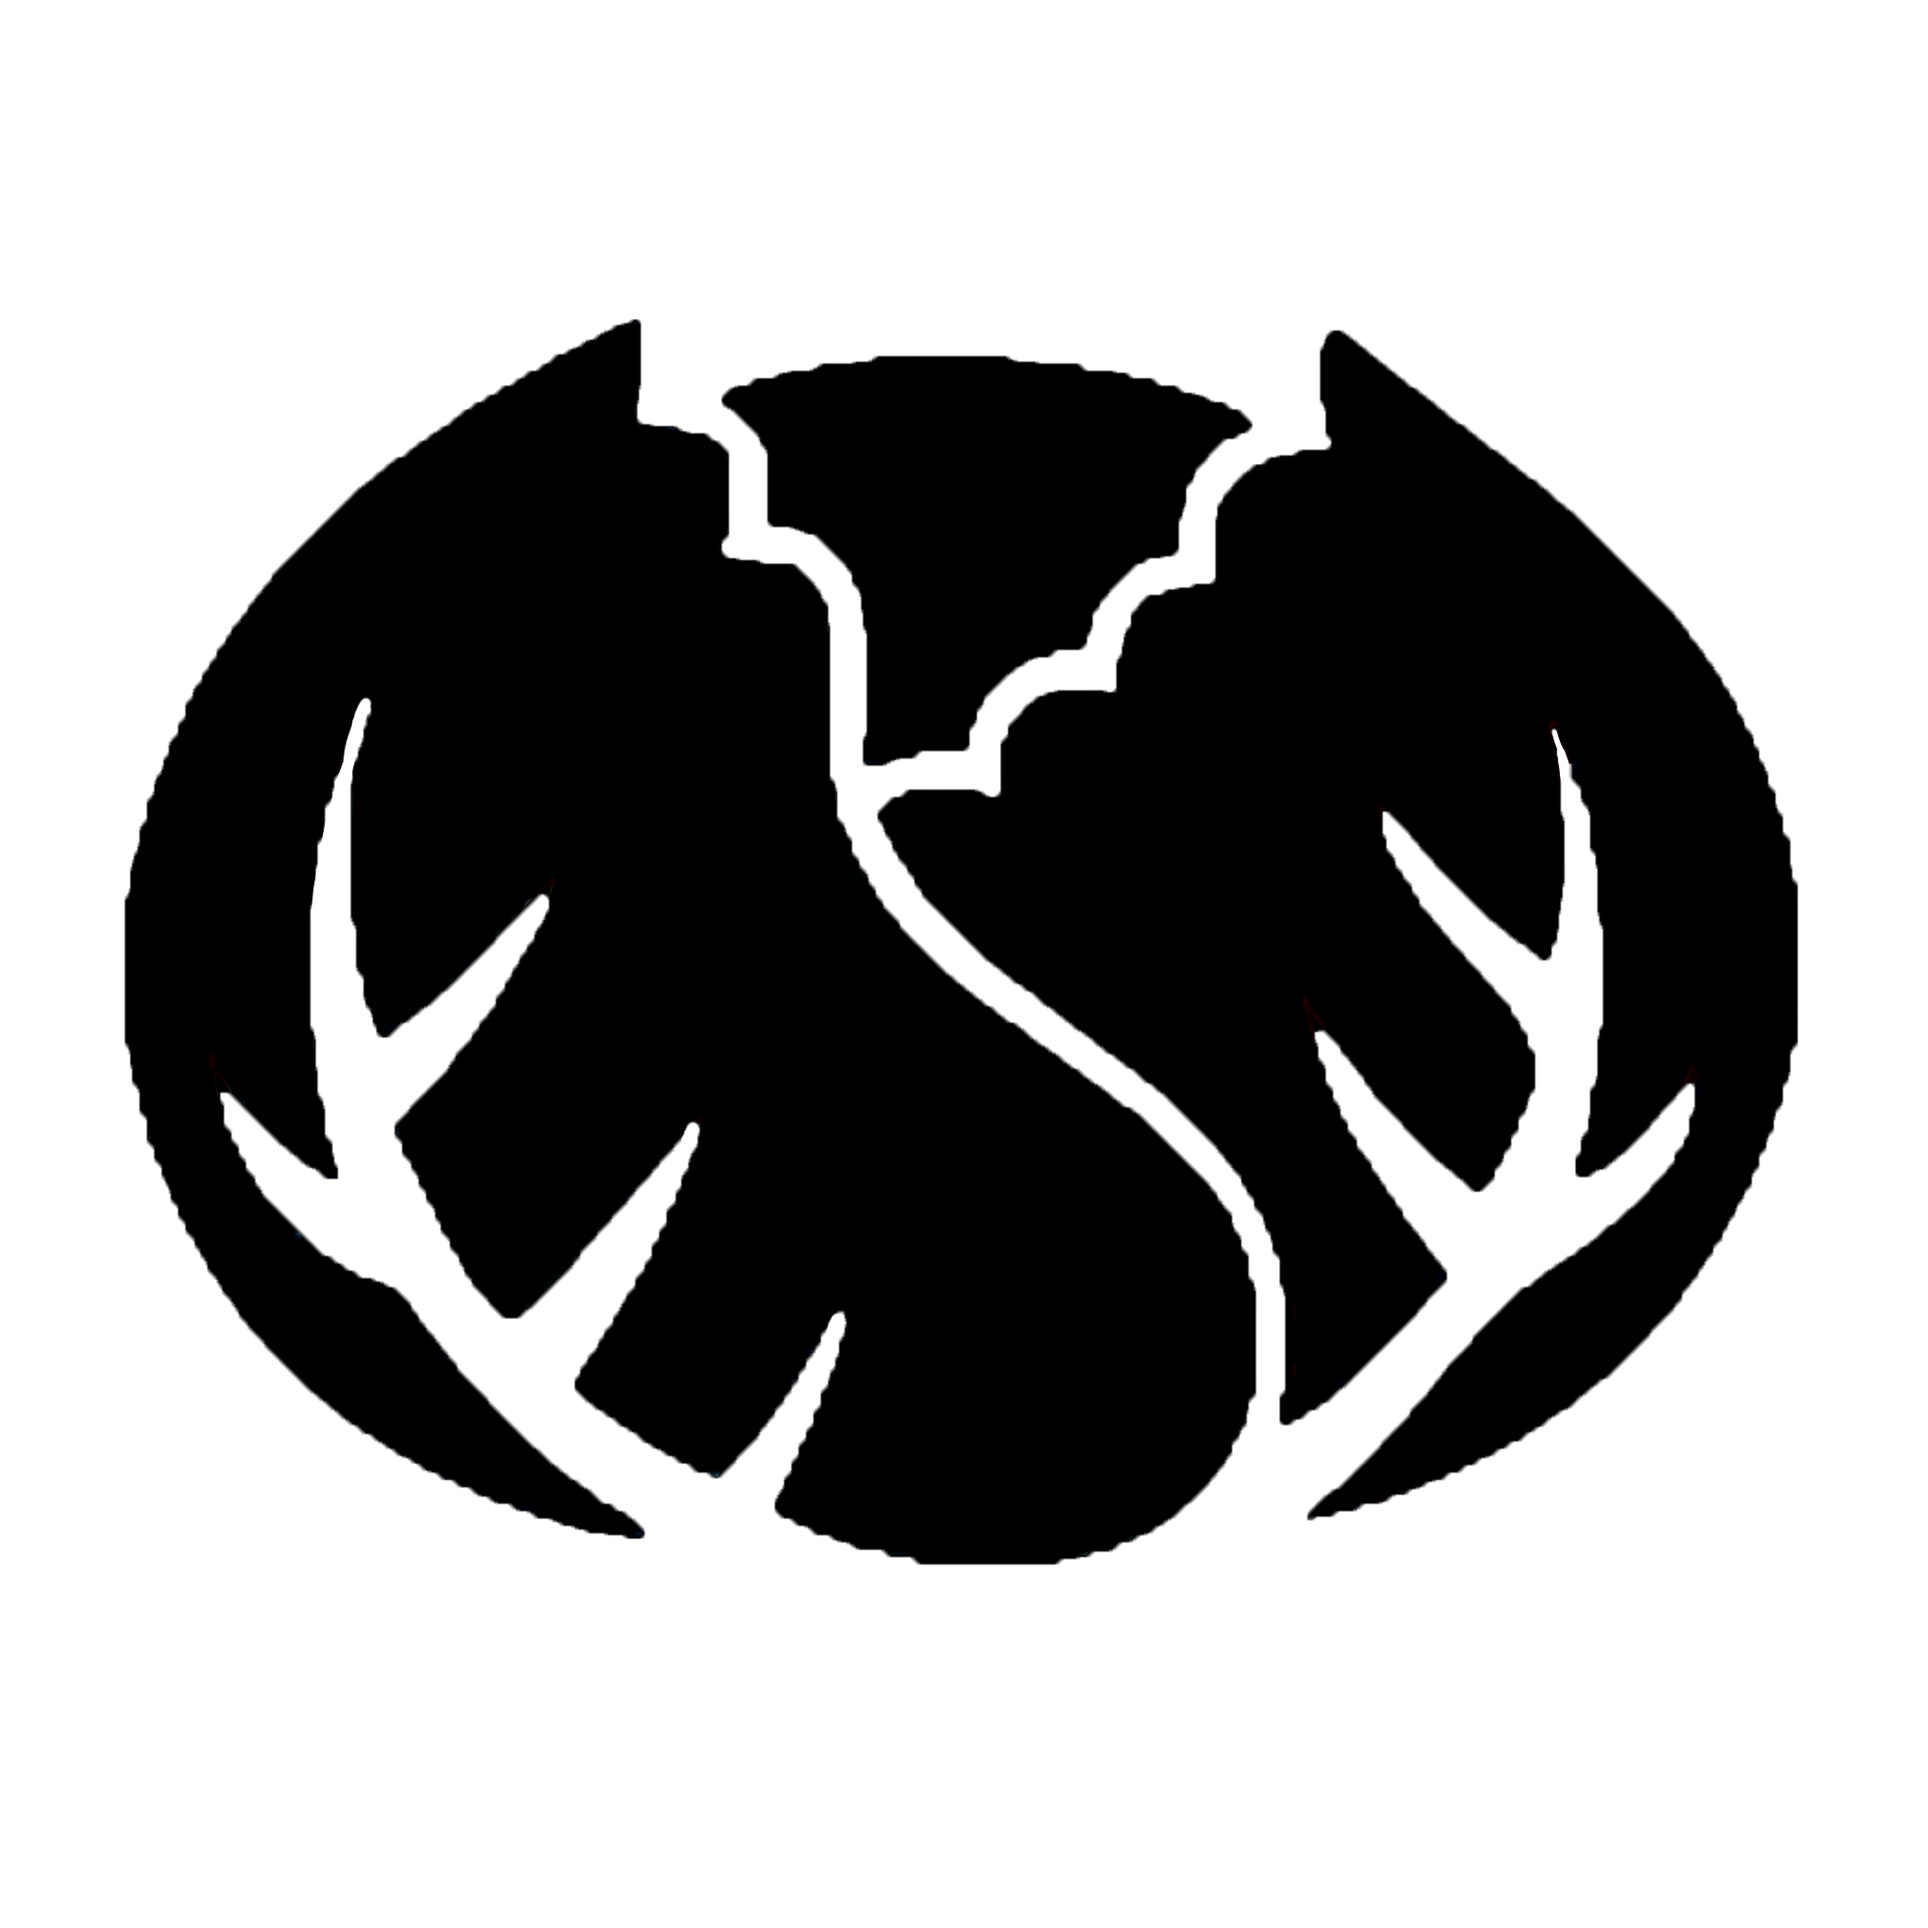
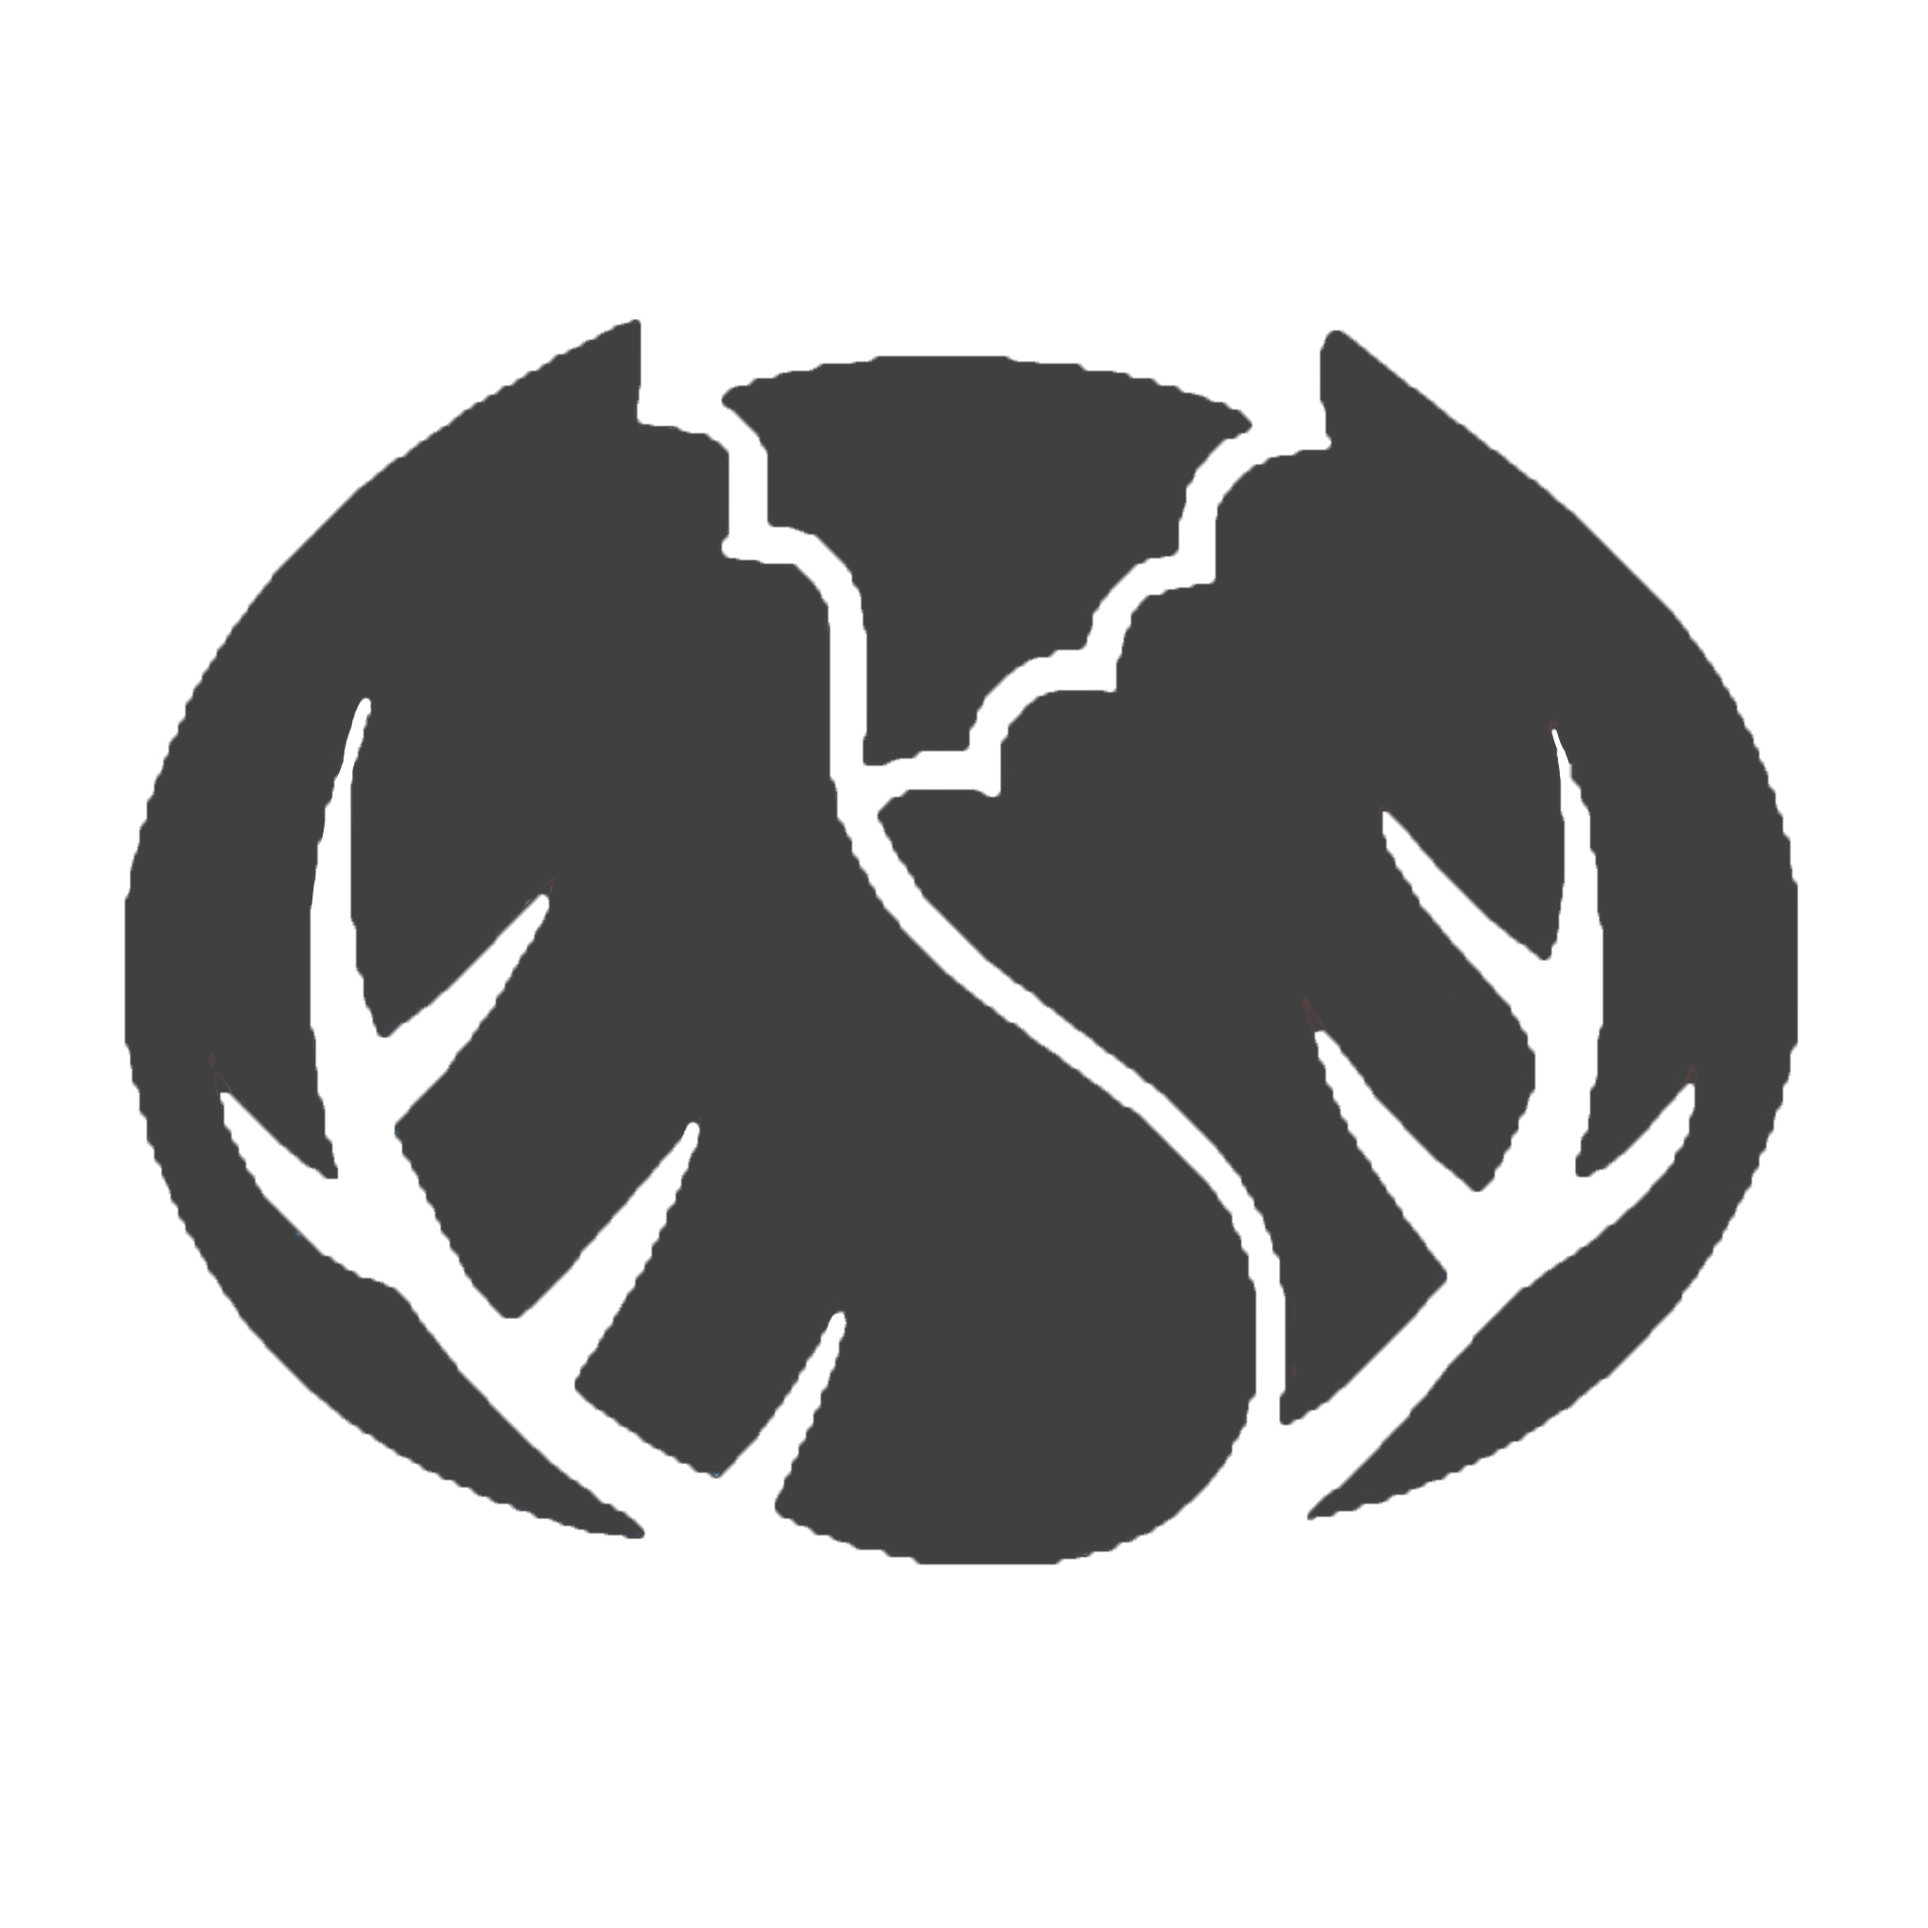
Add styling animations and colors

diff --git a/frontend/src/styles/header.scss b/frontend/src/styles/header.scss
@@ -24,15 +24,18 @@
             align-items: center;
             text-decoration: none;
             border-bottom: $dark-liver 2px solid;
-            
+            border-bottom-style: ridge;
         }
 
         .title {
             font-family: 'Amatic SC', cursive;
-            color: $light-orange;
+            color: $dark-liver;
             text-decoration: none;
-            font-size: 48px;
+            font-size: 52px;
             margin-right: 10px;
+            // text-shadow: 0 0 3px $light-orange, 0 0 6px $dark-liver;
+            text-shadow: 1px 1px #353535;
+
         }
 
         .logo {
@@ -97,18 +100,18 @@
                 position: relative;
             }
             
-            a::before {  
+            .Fruit::before {  
                 transform: scaleX(0);
                 transform-origin: center;
             }
             
-            a:hover::before {
+            .Fruit:hover::before {
                 transform: scaleX(1) translateX(-13%);
                 right: 60px;
                 transform-origin: center;
-              }
+            }
               
-              a::before {
+            .Fruit::before {
                 content: "";
                 display: block;
                 position: absolute;
@@ -125,7 +128,73 @@
                 background-position: center;
                 background-repeat: no-repeat;
                 background-size: 100%;
-              }
+            }
+            
+            a {
+                text-shadow: 1px 1px #353535;
+                font-size: 18px;
+            }
+
+            .Grains::before {  
+                transform: scaleX(0);
+                transform-origin: center;
+            }
+            
+            .Grains:hover::before {
+                transform: scaleX(1) translateX(-13%);
+                right: 60px;
+                transform-origin: center;
+            }
+              
+            .Grains::before {
+                content: "";
+                display: block;
+                position: absolute;
+                top: 0; 
+                right: 60px; 
+                bottom: 0; 
+                left: 0;
+                inset: 0 0 0 0;
+                z-index: -1;
+                transition: transform .3s ease;
+                background-image: url(../assets/images/grains.png);
+                height: 100%;
+                width: 140%;
+                background-position: center;
+                background-repeat: no-repeat;
+                background-size: 100%;
+            }
+
+            .Meats::before {  
+                transform: scaleX(0);
+                transform-origin: center;
+                height: 100%;
+            }
+            
+            .Meats:hover::before {
+                transform: scale(1) translateX(-13%);
+                right: 60px;
+                transform-origin: center;
+            }
+              
+            .Meats::before {
+                content: "";
+                display: block;
+                position: absolute;
+                top: 0; 
+                right: 60px; 
+                bottom: 0; 
+                left: 0;
+                inset: 0 0 0 0;
+                z-index: -1;
+                transition: transform .3s ease;
+                background-image: url(../assets/images/steaky.png);
+                height: 100%;
+                width: 135%;
+                background-position: center;
+                background-repeat: no-repeat;
+                background-size: 100%;
+            }
               
         }
     }

diff --git a/frontend/src/styles/listing_index.scss b/frontend/src/styles/listing_index.scss
@@ -2,7 +2,7 @@
     display: grid;
     justify-content: center;
     grid-template-columns: repeat(4, 22%);
-    grid-template-rows: auto;
+    grid-auto-rows: 20rem;
     gap: 2rem;
     margin-top: 10rem;
     margin-bottom: 3rem;
@@ -22,11 +22,11 @@
         
 
         img{
-            max-width: 100%;
+            width: 100%;
             height: 100%;
             object-fit: cover;
             border-radius: 20px;
-            border: 2px solid black;
+            border: 1px solid rgb(139, 139, 139);
         }
 
         img:hover {

diff --git a/frontend/src/components/navbar/nav_bar.jsx b/frontend/src/components/navbar/nav_bar.jsx
@@ -126,7 +126,7 @@ export default (props) => {
                     <ul className='cats'>
                         {categories.map(category => {
                                 return (
-                                    <Link to={`/category/${category}`} key={category}>{category}</Link>
+                                    <Link to={`/category/${category}`} key={category} className={category}>{category}</Link>
                                 )
                             })
                         }

diff --git a/frontend/src/styles/app.scss b/frontend/src/styles/app.scss
@@ -1,11 +1,12 @@
 @import "./reset.scss";
 
 // Colors
+$light-orange: #e3cbb2fd;
 // $light-orange: #fcd8b1;
-$light-orange: #fcd8b1f9;
+// $light-orange: #fcd8b1f9;
 $laurel-green: #B1B695;
-$wintergreen-dream: #409d80f9;
-$dark-liver: #63535B;
+$wintergreen-dream: #88b69dfb;
+$dark-liver: #f0f0f0;
 $claret: #6D1A36;
 $tweed: #937755;
 
